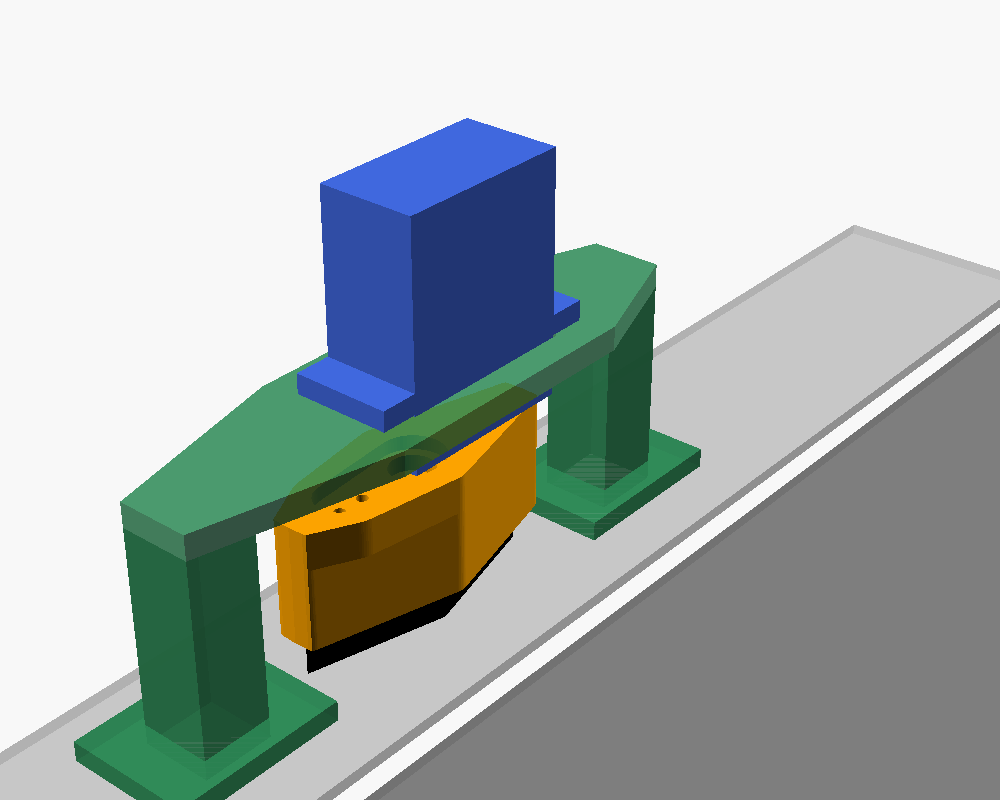
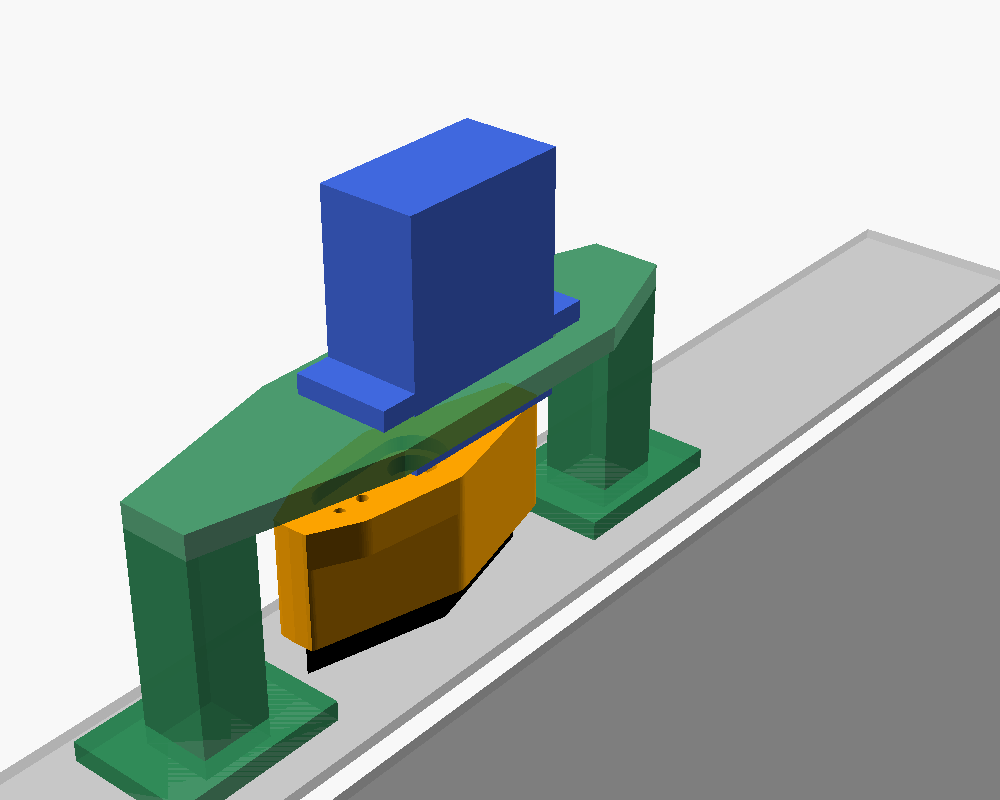
Rahmenrand 25 mm übernommen, Prüfung der Fußbreite
Claude-Session: https://claude.ai/code/session_01V2ShDL9xXnCPpknpFR2EBe

diff --git a/hardware/README.md b/hardware/README.md
@@ -41,7 +41,8 @@ zu prüfen.
 | `engage` | wie tief die Hülse über den Knopf greift (≤ `knob_h`) |
 | `knob_angle` | Lage der Rautenlängsachse bei der Montage (90 = senkrecht) |
 | `feet` | Fußpositionen relativ zur Knopfachse, beide auf dem Rahmenrand |
-| `foot_size` | Klebefläche; Breite (x) ≤ Breite des Rahmenrands |
+| `frame_w` | Breite des Rahmenrands (gemessen: 25 mm) |
+| `foot_size` | Klebefläche; Breite (x) ≤ `frame_w` (16 mm bei 25 mm Rand) |
 | `servo_dir` | 90 = Servo über dem Knopf, 270 = darunter |
 
 OpenSCAD warnt, wenn ein Fuß mit dem Mitnehmer kollidiert.
